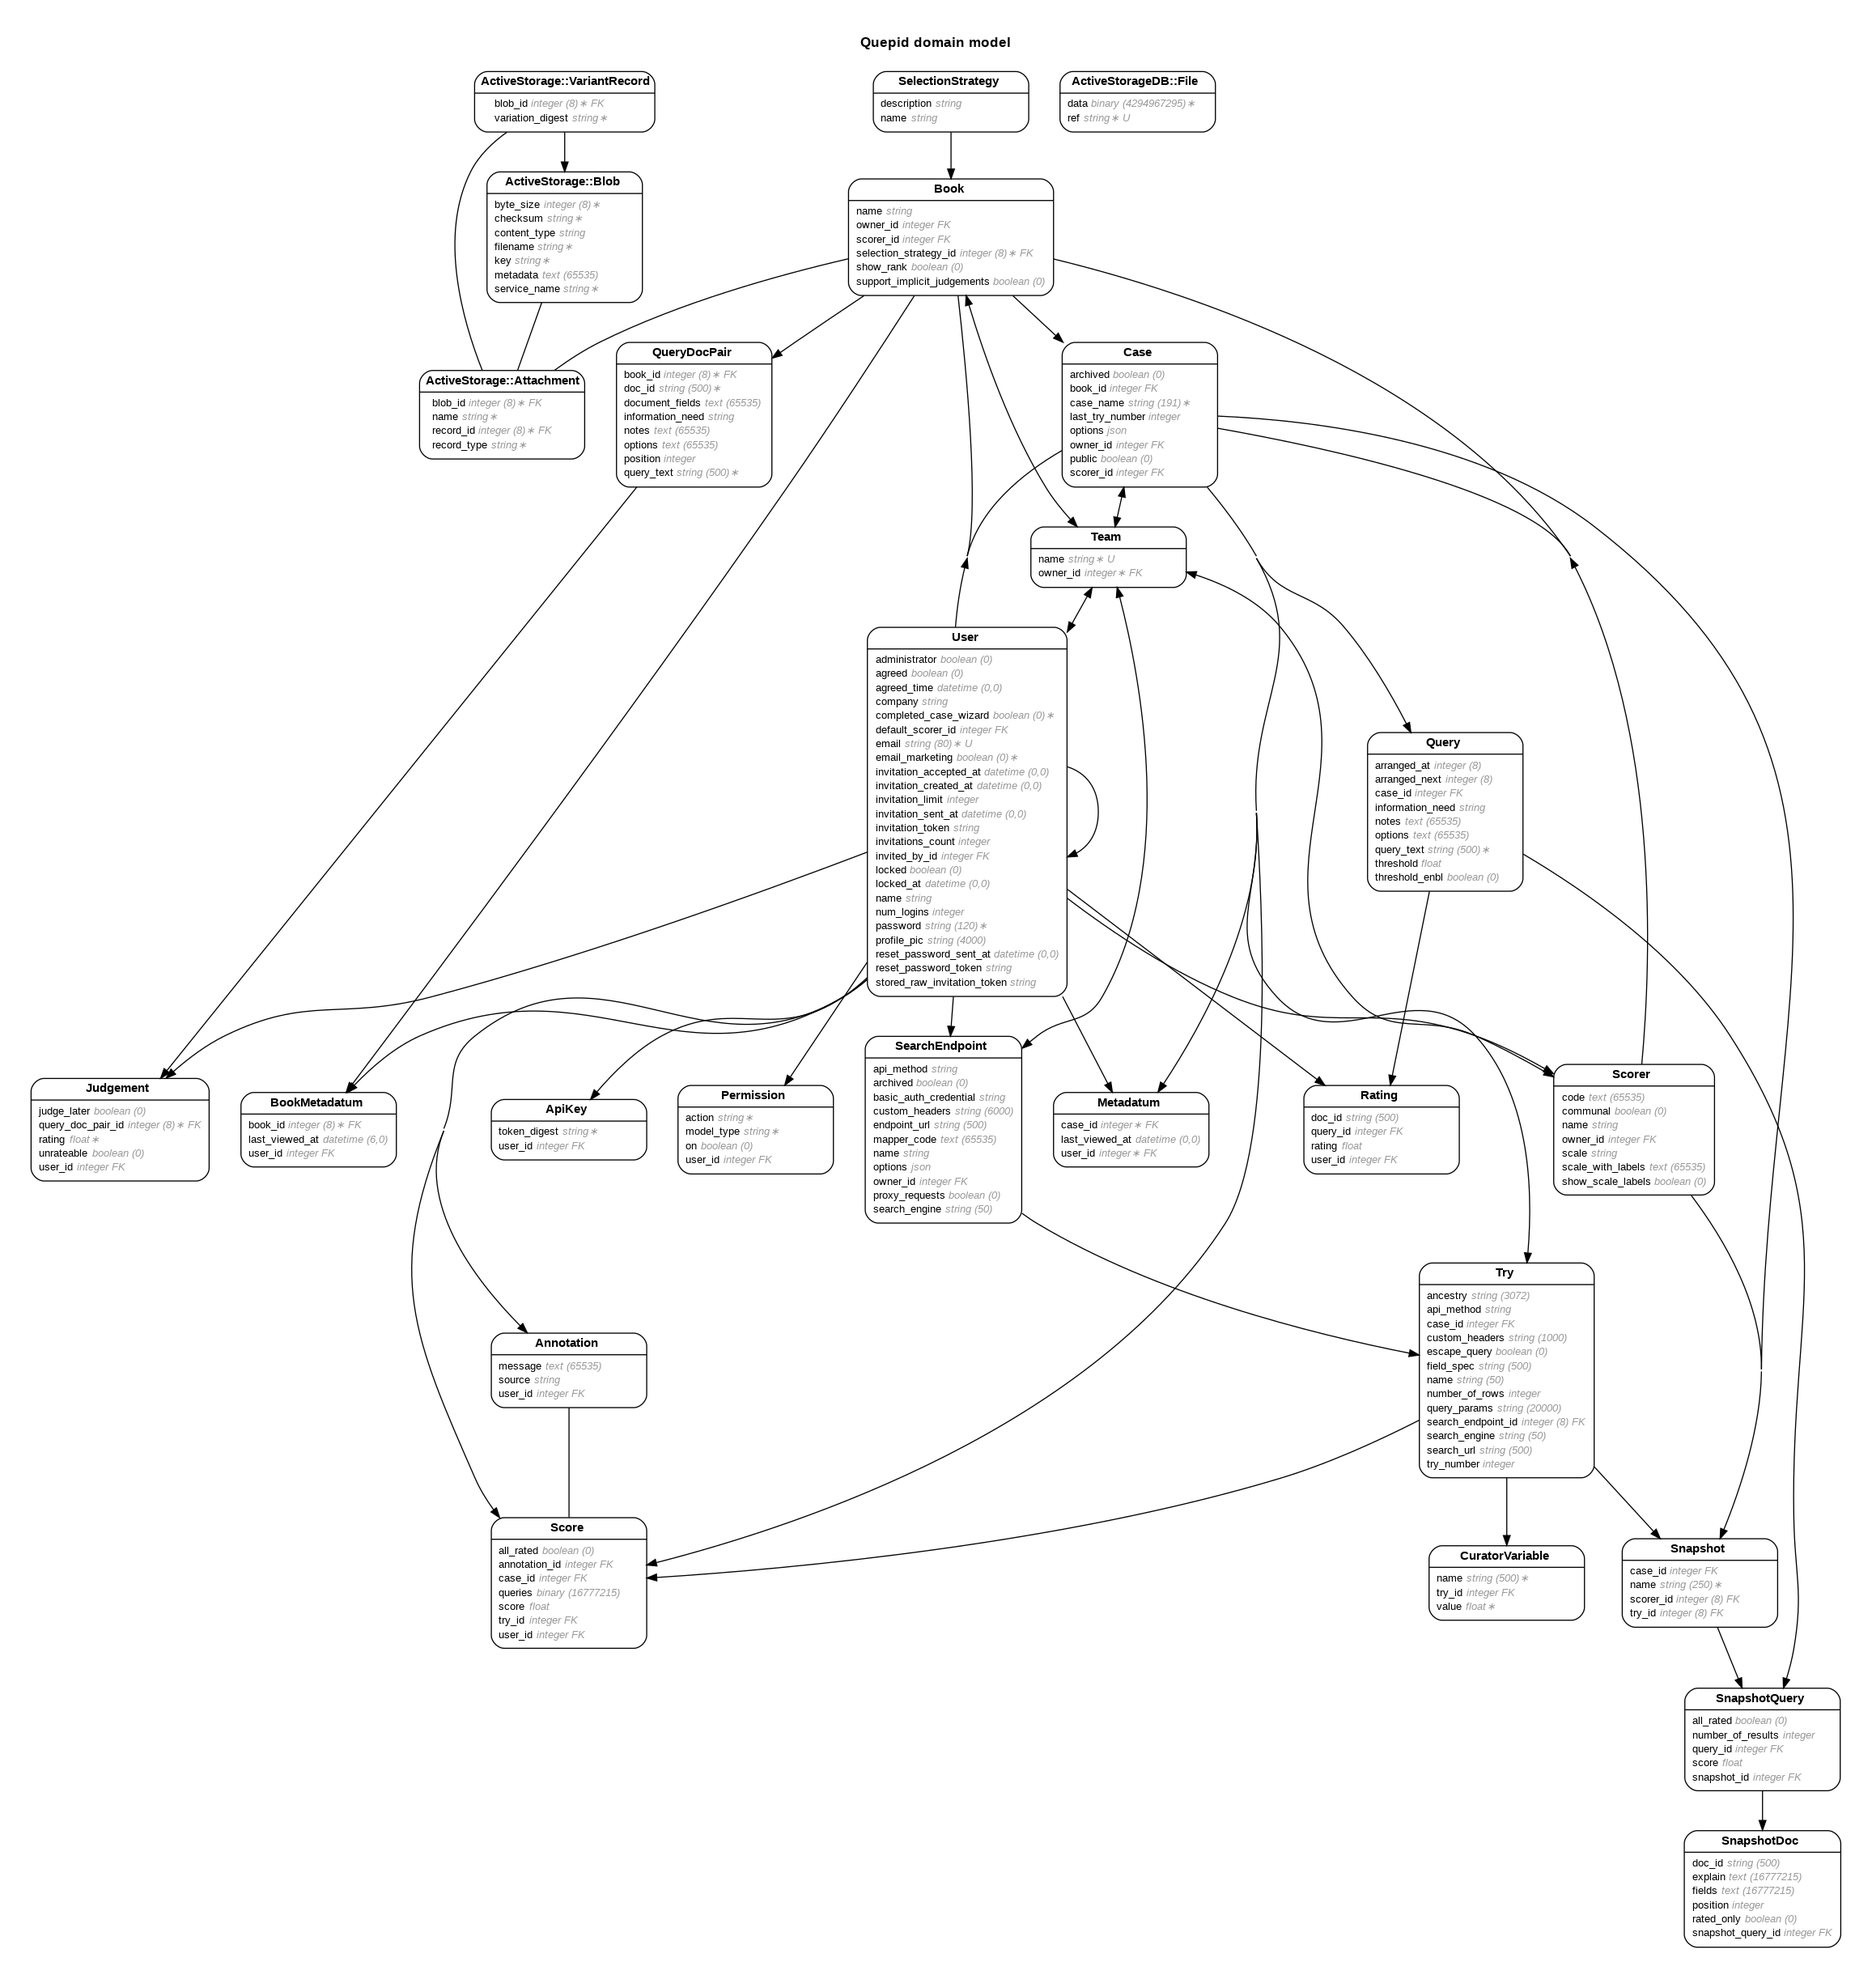
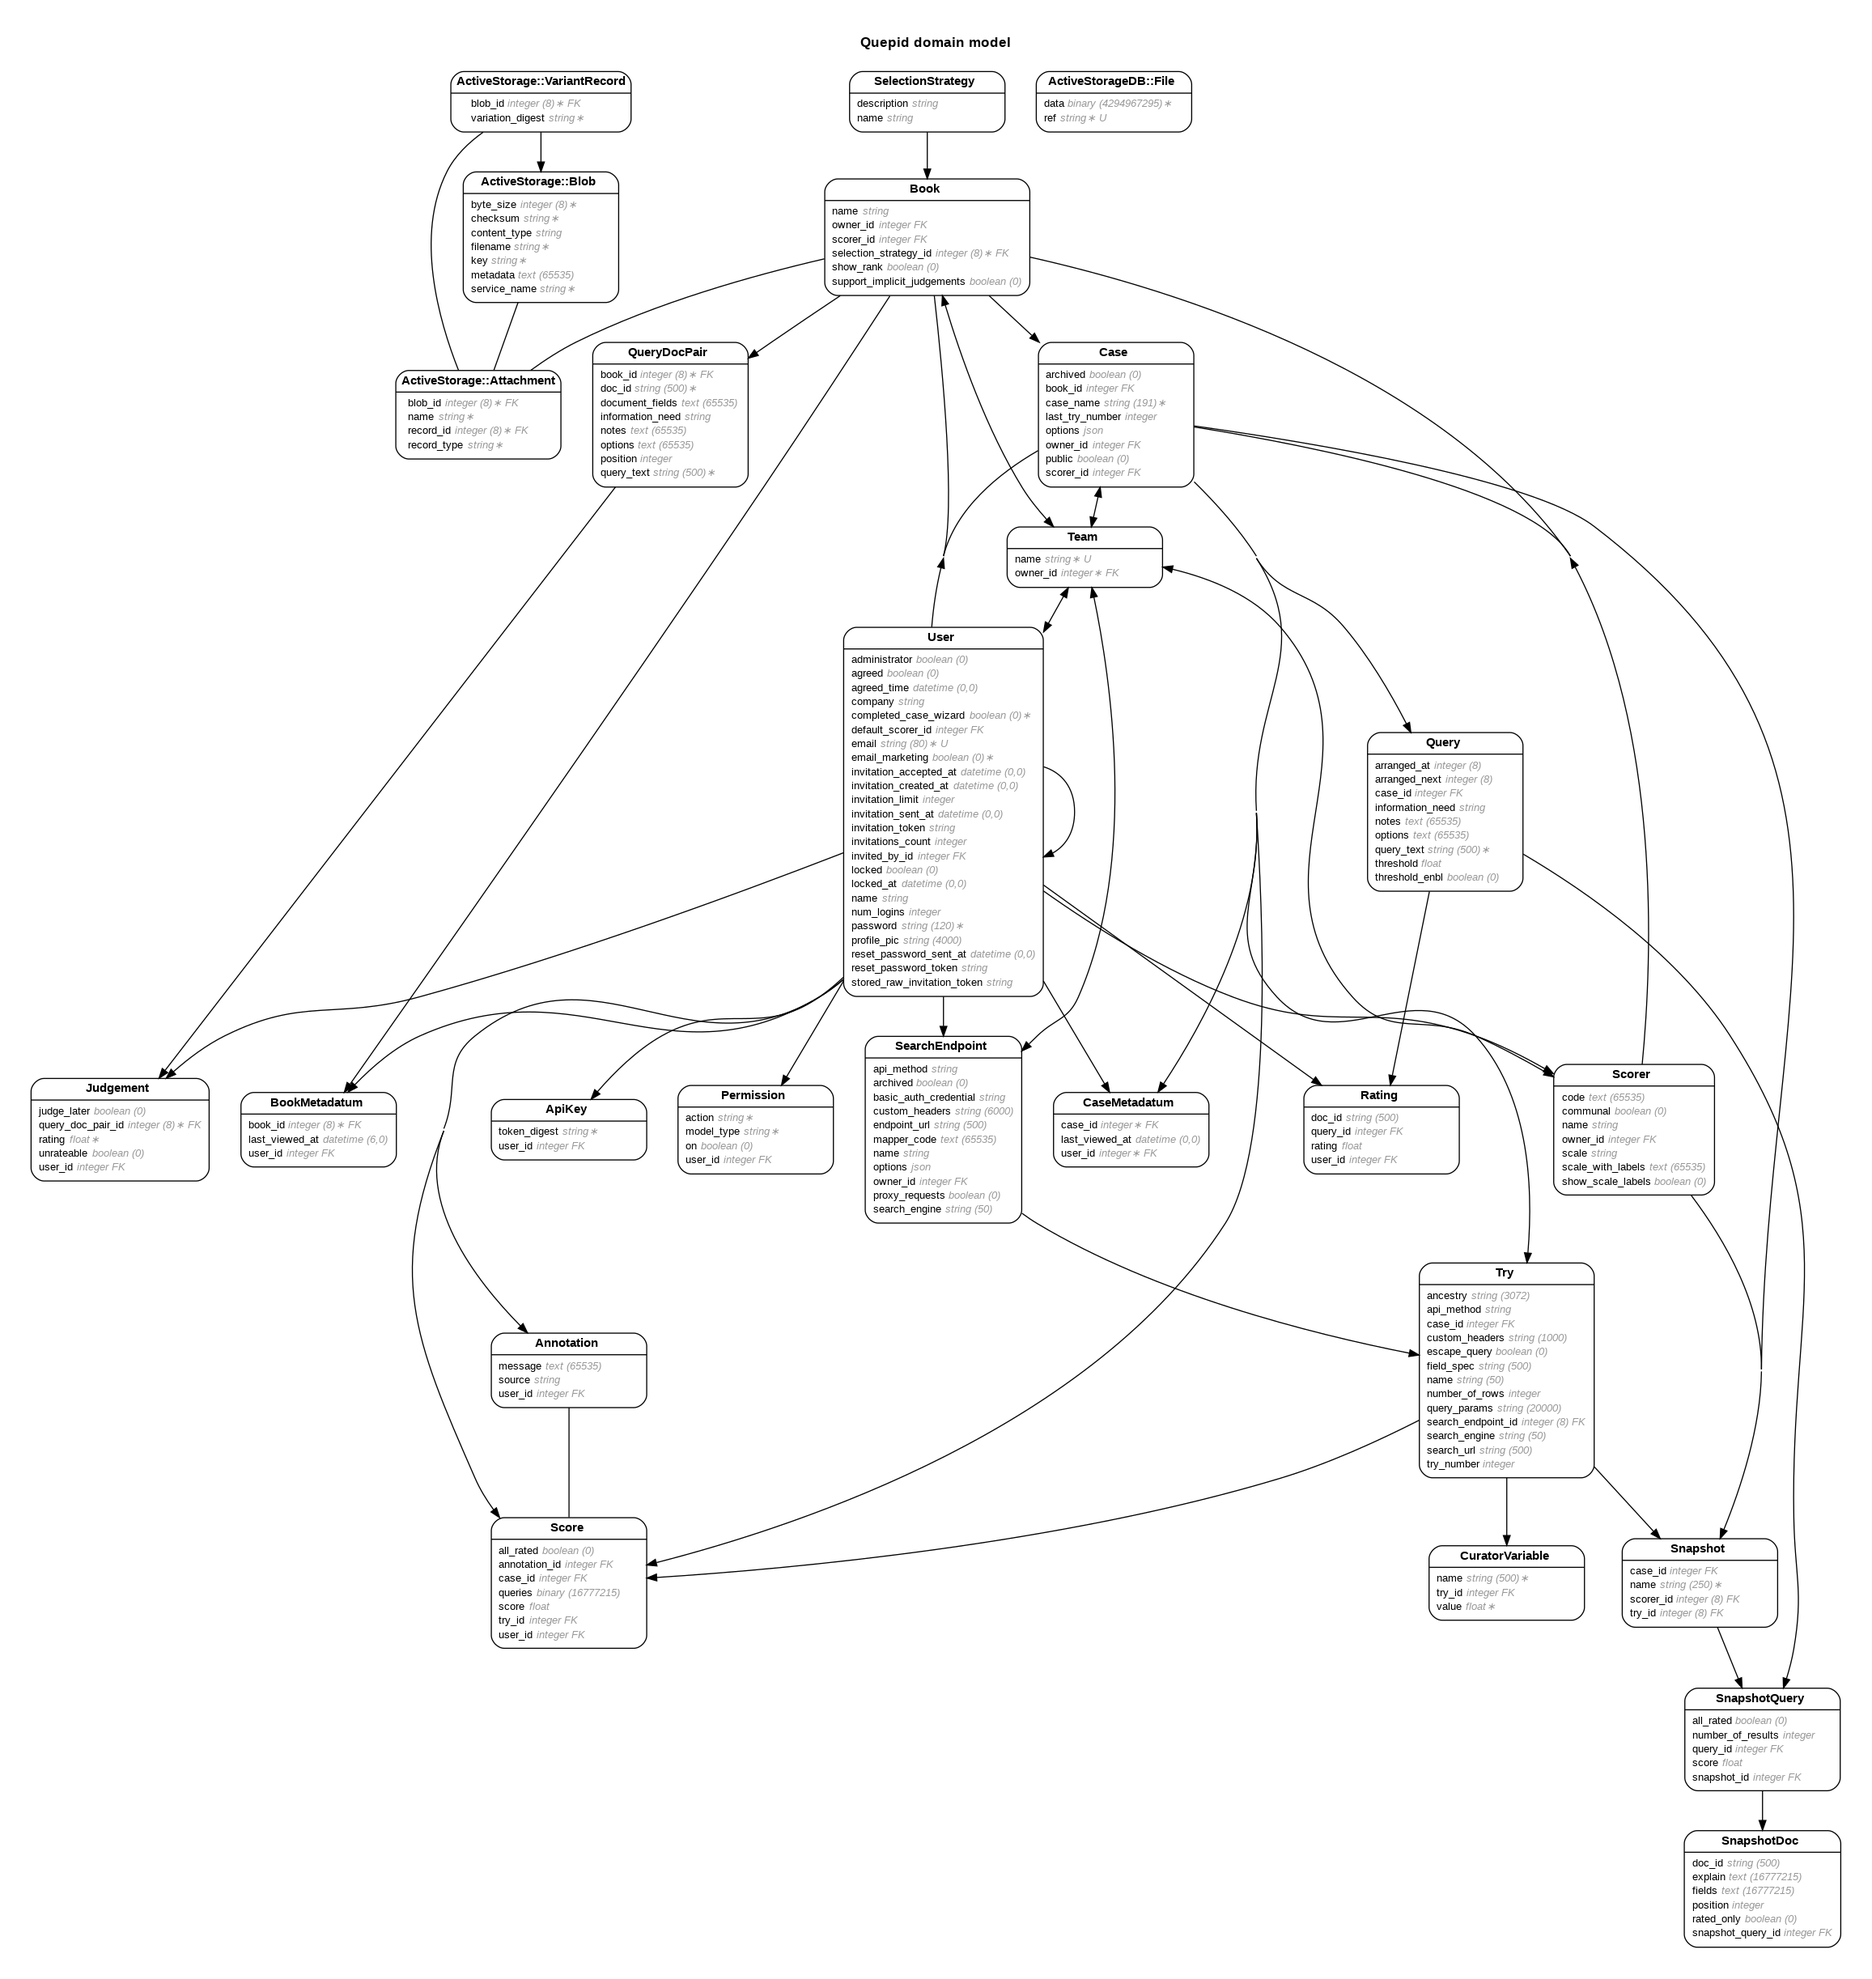
align book and case metadata classes together...

diff --git a/app/models/user.rb b/app/models/user.rb
@@ -107,8 +107,12 @@ class User < ApplicationRecord
   has_many :scores,
            dependent: :destroy
 
-  has_many :metadata,
-           dependent: :destroy
+  has_many :case_metadata,
+           class_name: 'CaseMetadatum',
+           dependent:  :destroy
+  has_many :book_metadata,
+           class_name: 'BookMetadatum',
+           dependent:  :destroy
 
   # Validations
 

diff --git a/app/models/case.rb b/app/models/case.rb
@@ -44,7 +44,8 @@ class Case < ApplicationRecord
              inverse_of: :case
 
   has_many   :metadata,
-             dependent: :destroy
+             class_name: 'CaseMetadatum',
+             dependent:  :destroy
 
   # rubocop:disable Rails/InverseOf
   has_many   :queries,  -> { order(arranged_at: :asc) },

diff --git a/app/models/case_metadatum.rb b/app/models/case_metadatum.rb
@@ -20,8 +20,7 @@
 #  case_metadata_ibfk_2  (user_id => users.id)
 #
 
-class Metadatum < ApplicationRecord
-  self.table_name = 'case_metadata'
+class CaseMetadatum < ApplicationRecord
   belongs_to :case
   belongs_to :user
 end

diff --git a/app/models/book_metadatum.rb b/app/models/book_metadatum.rb
@@ -19,7 +19,6 @@
 #  fk_rails_...  (book_id => books.id)
 #
 class BookMetadatum < ApplicationRecord
-  # self.table_name = 'case_metadata'
   belongs_to :book
   belongs_to :user
 end
